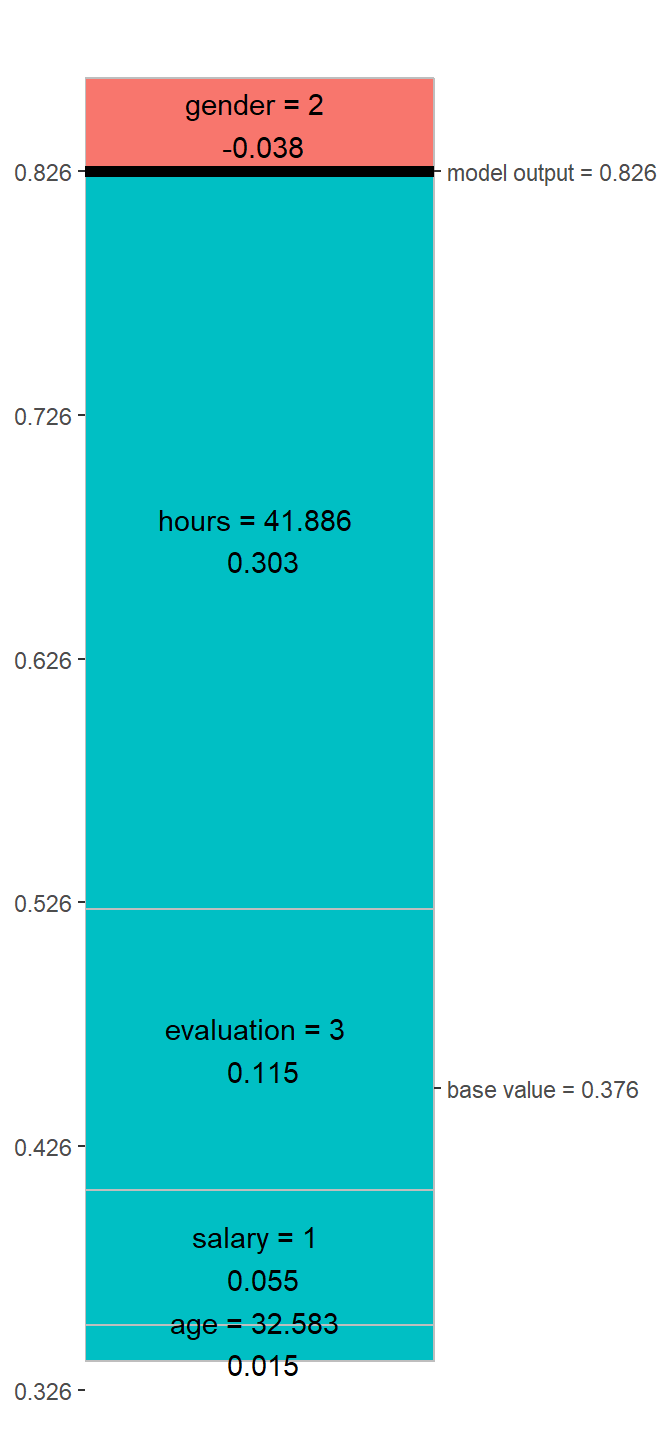
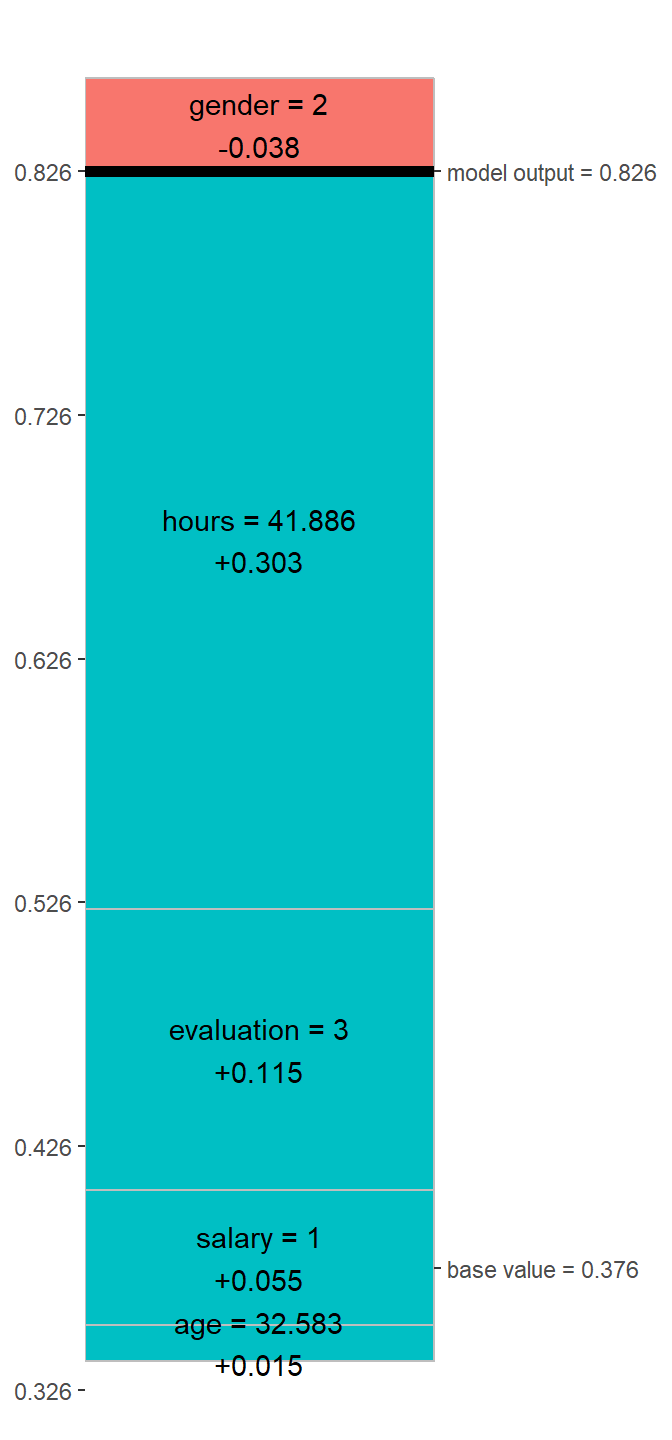
add print function

diff --git a/docs/reference/print.individual_variable_effect.html b/docs/reference/print.individual_variable_effect.html
@@ -1,0 +1,160 @@
+<!-- Generated by pkgdown: do not edit by hand -->
+<!DOCTYPE html>
+<html>
+  <head>
+  <meta charset="utf-8">
+<meta http-equiv="X-UA-Compatible" content="IE=edge">
+<meta name="viewport" content="width=device-width, initial-scale=1.0">
+
+<title>Print Individual Variable Effects — print.individual_variable_effect • shapper</title>
+
+<!-- jquery -->
+<script src="https://code.jquery.com/jquery-3.1.0.min.js" integrity="sha384-nrOSfDHtoPMzJHjVTdCopGqIqeYETSXhZDFyniQ8ZHcVy08QesyHcnOUpMpqnmWq" crossorigin="anonymous"></script>
+<!-- Bootstrap -->
+
+<link href="https://maxcdn.bootstrapcdn.com/bootstrap/3.3.7/css/bootstrap.min.css" rel="stylesheet" integrity="sha384-BVYiiSIFeK1dGmJRAkycuHAHRg32OmUcww7on3RYdg4Va+PmSTsz/K68vbdEjh4u" crossorigin="anonymous">
+<script src="https://maxcdn.bootstrapcdn.com/bootstrap/3.3.7/js/bootstrap.min.js" integrity="sha384-Tc5IQib027qvyjSMfHjOMaLkfuWVxZxUPnCJA7l2mCWNIpG9mGCD8wGNIcPD7Txa" crossorigin="anonymous"></script>
+
+<!-- Font Awesome icons -->
+<link href="https://maxcdn.bootstrapcdn.com/font-awesome/4.6.3/css/font-awesome.min.css" rel="stylesheet" integrity="sha384-T8Gy5hrqNKT+hzMclPo118YTQO6cYprQmhrYwIiQ/3axmI1hQomh7Ud2hPOy8SP1" crossorigin="anonymous">
+
+
+<!-- pkgdown -->
+<link href="../pkgdown.css" rel="stylesheet">
+<script src="../jquery.sticky-kit.min.js"></script>
+<script src="../pkgdown.js"></script>
+<!-- mathjax -->
+<script src='https://mathjax.rstudio.com/latest/MathJax.js?config=TeX-AMS-MML_HTMLorMML'></script>
+
+<!--[if lt IE 9]>
+<script src="https://oss.maxcdn.com/html5shiv/3.7.3/html5shiv.min.js"></script>
+<script src="https://oss.maxcdn.com/respond/1.4.2/respond.min.js"></script>
+<![endif]-->
+
+
+  </head>
+
+  <body>
+    <div class="container template-reference-topic">
+      <header>
+      <div class="navbar navbar-default navbar-fixed-top navbar-mi2" role="navigation">
+  <div class="container">
+    <div class="navbar-header">
+      <button type="button" class="navbar-toggle collapsed" data-toggle="collapse" data-target="#navbar">
+        <span class="icon-bar"></span>
+        <span class="icon-bar"></span>
+        <span class="icon-bar"></span>
+      </button>
+	  <a class = "navbar-mi2logo" href="http://mi2.mini.pw.edu.pl/">
+        <img src = "https://github.com/mi2-warsaw/MI2template/blob/master/inst/pkgdown/assets/MI2logo.jpg?raw=true" alt = "MI2" height = 46 title = "MI2">
+	  </a>
+      <a class="navbar-brand navbar-mi2" href="../index.html">Print Individual Variable Effects</a>
+    </div>
+    <div id="navbar" class="navbar-collapse collapse">
+      <ul class="navbar-mi2 nav navbar-nav">
+        <li>
+  <a href="../index.html">
+    <span class="fa fa-home fa-lg"></span>
+     
+  </a>
+</li>
+<li>
+  <a href="../reference/index.html">Reference</a>
+</li>
+<li class="dropdown">
+  <a href="#" class="dropdown-toggle" data-toggle="dropdown" role="button" aria-expanded="false">
+    Articles
+     
+    <span class="caret"></span>
+  </a>
+  <ul class="dropdown-menu" role="menu">
+    <li>
+      <a href="../articles/how_to_use_shapper.html">How to use shapper</a>
+    </li>
+  </ul>
+</li>
+      </ul>
+      
+      <ul class="nav navbar-nav navbar-right">
+        
+      </ul>
+    </div><!--/.nav-collapse -->
+  </div><!--/.container -->
+</div><!--/.navbar -->
+
+      
+      </header>
+
+      <div class="row">
+  <div class="col-md-9 contents">
+    <div class="page-header">
+    <h1>Print Individual Variable Effects</h1>
+    </div>
+
+    
+    <p>Print Individual Variable Effects</p>
+    
+
+    <pre class="usage"><span class='co'># S3 method for individual_variable_effect</span>
+<span class='fu'>print</span>(<span class='no'>x</span>, <span class='no'>...</span>)</pre>
+    
+    <h2 class="hasAnchor" id="arguments"><a class="anchor" href="#arguments"></a> Arguments</h2>
+    <table class="ref-arguments">
+    <colgroup><col class="name" /><col class="desc" /></colgroup>
+    <tr>
+      <th>x</th>
+      <td><p>an individual variable effect explainer created with the <code>`individual_variable_effect`</code> function.</p></td>
+    </tr>
+    <tr>
+      <th>...</th>
+      <td><p>further arguments passed to or from other methods.</p></td>
+    </tr>
+    </table>
+    
+
+    <h2 class="hasAnchor" id="examples"><a class="anchor" href="#examples"></a>Examples</h2>
+    <pre class="examples"><span class='co'># NOT RUN {</span>
+<span class='fu'>library</span>(<span class='st'>"shapper"</span>)
+<span class='fu'>library</span>(<span class='st'>"DALEX"</span>)
+<span class='fu'>library</span>(<span class='st'>"randomForest"</span>)
+<span class='no'>Y_train</span> <span class='kw'>&lt;-</span> <span class='no'>HR</span>$<span class='no'>status</span>
+<span class='no'>x_train</span> <span class='kw'>&lt;-</span> <span class='no'>HR</span>[ , -<span class='fl'>6</span>]
+<span class='no'>x_train</span>$<span class='no'>gender</span> <span class='kw'>&lt;-</span> <span class='fu'>as.numeric</span>(<span class='no'>x_train</span>$<span class='no'>gender</span>)
+<span class='fu'>set.seed</span>(<span class='fl'>123</span>)
+<span class='no'>model_rf</span> <span class='kw'>&lt;-</span> <span class='fu'><a href='http://www.rdocumentation.org/packages/randomForest/topics/randomForest'>randomForest</a></span>(<span class='kw'>x</span> <span class='kw'>=</span> <span class='no'>x_train</span>, <span class='kw'>y</span> <span class='kw'>=</span> <span class='no'>Y_train</span>)
+<span class='no'>p_fun</span> <span class='kw'>&lt;-</span> <span class='kw'>function</span>(<span class='no'>x</span>, <span class='no'>data</span>){
+  <span class='fu'>predict</span>(<span class='no'>x</span>, <span class='kw'>newdata</span> <span class='kw'>=</span> <span class='no'>data</span>, <span class='kw'>type</span> <span class='kw'>=</span> <span class='st'>"prob"</span>)
+  }
+  <span class='no'>ive</span> <span class='kw'>&lt;-</span> <span class='fu'><a href='individual_variable_effect.html'>individual_variable_effect</a></span>(<span class='kw'>x</span> <span class='kw'>=</span> <span class='no'>model_rf</span>, <span class='kw'>data</span> <span class='kw'>=</span> <span class='no'>x_train</span>,
+                                    <span class='kw'>predict_function</span> <span class='kw'>=</span> <span class='no'>p_fun</span>,
+                                    <span class='kw'>new_observation</span> <span class='kw'>=</span> <span class='no'>x_train</span>[<span class='fl'>1</span>,])
+ <span class='no'>ive</span>
+<span class='co'># }</span><div class='input'>
+</div></pre>
+  </div>
+  <div class="col-md-3 hidden-xs hidden-sm" id="sidebar">
+    <h2>Contents</h2>
+    <ul class="nav nav-pills nav-stacked">
+      <li><a href="#arguments">Arguments</a></li>
+            
+      <li><a href="#examples">Examples</a></li>
+    </ul>
+
+  </div>
+</div>
+
+      <footer>
+      <div class="copyright">
+  <p>Developed by Alicja Gosiewska, Przemyslaw Biecek.</p>
+</div>
+
+<div class="pkgdown">
+  <p>Site built with <a href="http://hadley.github.io/pkgdown/">pkgdown</a>.</p>
+</div>
+
+      </footer>
+   </div>
+
+  </body>
+</html>
+

diff --git a/docs/articles/how_to_use_shapper.html b/docs/articles/how_to_use_shapper.html
@@ -88,14 +88,32 @@ x_train<span class="op">$</span>gender &lt;-<span class="st"> </span><span class
 
 <span class="kw">set.seed</span>(<span class="dv">123</span>)
 model_rf &lt;-<span class="st"> </span><span class="kw">randomForest</span>(<span class="dt">x =</span> x_train, <span class="dt">y =</span> Y_train)</code></pre></div>
-<p>Caculating individual variable attributions</p>
+</div>
+<div id="caculating-individual-variable-attributions" class="section level1">
+<h1 class="hasAnchor">
+<a href="#caculating-individual-variable-attributions" class="anchor"></a>Caculating individual variable attributions</h1>
 <div class="sourceCode"><pre class="sourceCode r"><code class="sourceCode r">p_fun &lt;-<span class="st"> </span><span class="cf">function</span>(x, data){
   <span class="kw">predict</span>(x, <span class="dt">newdata =</span> data, <span class="dt">type =</span> <span class="st">"prob"</span>)
 }
 
 ive &lt;-<span class="st"> </span><span class="kw"><a href="../reference/individual_variable_effect.html">individual_variable_effect</a></span>(<span class="dt">x =</span> model_rf, <span class="dt">data =</span> x_train, 
                                   <span class="dt">predict_function =</span> p_fun,
-                           <span class="dt">new_observation =</span> x_train[<span class="dv">1</span>,])</code></pre></div>
+                           <span class="dt">new_observation =</span> x_train[<span class="dv">1</span>,])
+ive</code></pre></div>
+<pre><code>##     gender      age    hours evaluation salary _id_ _ylevel_ _yhat_
+## 1        2 32.58267 41.88626          3      1    1    fired  0.826
+## 1.3      2 32.58267 41.88626          3      1    1    fired  0.826
+## 1.4      2 32.58267 41.88626          3      1    1    fired  0.826
+## 1.5      2 32.58267 41.88626          3      1    1    fired  0.826
+## 1.6      2 32.58267 41.88626          3      1    1    fired  0.826
+## 1.1      2 32.58267 41.88626          3      1    1       ok  0.168
+##     _yhat_mean_    _vname_ _attribution_ _sign_
+## 1     0.3760393     gender   -0.03791535      -
+## 1.3   0.3760393        age    0.01458644      +
+## 1.4   0.3760393      hours    0.30273184      +
+## 1.5   0.3760393 evaluation    0.11516991      +
+## 1.6   0.3760393     salary    0.05538791      +
+## 1.1   0.2744662     gender    0.03030957      +</code></pre>
 </div>
 <div id="plotting-results" class="section level1">
 <h1 class="hasAnchor">
@@ -111,6 +129,7 @@ ive &lt;-<span class="st"> </span><span class="kw"><a href="../reference/individ
 <a href="#tocnav" class="anchor"></a>Contents</h2>
       <ul class="nav nav-pills nav-stacked">
 <li><a href="#model-preparation">Model preparation</a></li>
+      <li><a href="#caculating-individual-variable-attributions">Caculating individual variable attributions</a></li>
       <li><a href="#plotting-results">Plotting results</a></li>
       </ul>
 </div>

diff --git a/docs/reference/index.html b/docs/reference/index.html
@@ -127,6 +127,12 @@
             <p><code><a href="plot.individual_variable_effect.html">plot(<i>&lt;individual_variable_effect&gt;</i>)</a></code> </p>
           </td>
           <td><p>Plots Attributions for Variables of Individual Prediction</p></td>
+        </tr><tr>
+          <!--  -->
+          <td>
+            <p><code><a href="print.individual_variable_effect.html">print(<i>&lt;individual_variable_effect&gt;</i>)</a></code> </p>
+          </td>
+          <td><p>Print Individual Variable Effects</p></td>
         </tr>
       </tbody>
       </table>
